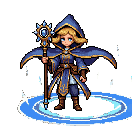
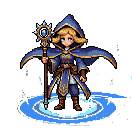
Blue witch nods off in 8 frames; magic circle rings centred under her boots
The blue witch's sleep frames barely moved. She now sits and nods: Pixellab's
dozing frames with her head moved down 0-3px (witch_front_nod_*), 8 frames at
250ms. The black witch keeps her 3 frames at 750ms. Each witch in PETS now
says how many sleep frames she has and how fast, and the art is named
<pet>-sleep-0..n.png (install.ps1 removes the old witch-sleep.png and
witch-black-sleep.png). The default witch is looked up by name, not by her
place in the list.

Pixellab drew the magic circle off to the right of both witches, cut off by
the canvas. Its left half, white core included, is mirrored round the middle
of her boots, so the ring sits under her. witch_attack.py's header notes
that these sources were edited by hand.

Changed region(s): [[0.5152, 0.7273, 1.0, 0.9697]]

diff --git a/mods/kage-agents/main.js b/mods/kage-agents/main.js
@@ -64,10 +64,13 @@ const SORTS = [
   { id: "grouped", label: "Grouped by space", icon: "layers" },
 ];
 const sortOf = () => SORTS.find((s) => s.id === shared("agents.sort")) ?? SORTS[0];
-// The card's witch, picked in the sort popup: <id>-atk-0..8.png while the agent works, <id>-sleep*.png while it idles.
+// The card's witch, picked in the sort popup: <id>-atk-0..8.png while the agent works, <id>-sleep-0..n.png while it
+// idles (the blue witch nods off in 8 quick frames, the black one dozes in 3 slow ones).
 // The art is drawn at this size (avatars/witch_attack.py), so it is shown 1:1.
-const PETS = [{ id: "witch", label: "Blue witch" }, { id: "witch-black", label: "Black witch" }];
-const petOf = () => PETS.find((p) => p.id === shared("agents.pet"))?.id ?? "witch-black";
+const PETS = [{ id: "witch", label: "Blue witch", sleep: 8, ms: 250 }, { id: "witch-black", label: "Black witch", sleep: 3, ms: 750 }];
+const petObj = () => PETS.find((p) => p.id === shared("agents.pet")) ?? PETS.find((p) => p.id === "witch-black");
+const petOf = () => petObj().id;
+const snoreAt = (now) => Math.floor(now / petObj().ms) % petObj().sleep;
 // Each witch's moves while an agent works (<pet>-<id>-0..8.png; the cast is atk). "random" gives each agent one of
 // them, the same one every time (by its address).
 const MOVES = [
@@ -120,11 +123,11 @@ export default class Agents extends View {
     if (!this.pendingPins.length) localStorage.removeItem("pins");
     this.migratingPins = new Set();
     cx.timer.every(30000, (cx) => cx.notify());
-    // The awake witch changes frame 8 times a second; asleep, the z's step every 750ms. No cards, no redraws.
+    // The awake witch changes frame 8 times a second; asleep, every 250 or 750ms. No cards, no redraws.
     // Checked twice per step and redrawn only when the step changes, so a late tick can't skip one.
     cx.timer.every(BEAT, (cx) => {
       const now = Date.now();
-      if ((this.awake && Math.floor(now / BEAT) % FRAMES !== this.step) || (this.asleep && Math.floor(now / 750) % 3 !== this.snore)) cx.notify();
+      if ((this.awake && Math.floor(now / BEAT) % FRAMES !== this.step) || (this.asleep && snoreAt(now) !== this.snore)) cx.notify();
     });
   }
 
@@ -197,7 +200,7 @@ export default class Agents extends View {
       .children(SORTS.map((s) => row(`sort-${s.id}`, s.label, svg(`mods/workspace-chrome/${s.icon}.svg`).size(14).flex_none().text_color(t.muted),
         s.id === sortOf().id, () => setShared("agents.sort", s.id))))
       .child(head("Avatar", 8))
-      .children(PETS.map((p) => row(`pet-${p.id}`, p.label, image(`mods/kage-agents/${p.id}-sleep.png`).w(18).h(18).flex_none(),
+      .children(PETS.map((p) => row(`pet-${p.id}`, p.label, image(`mods/kage-agents/${p.id}-sleep-0.png`).w(18).h(18).flex_none(),
         p.id === petOf(), () => setShared("agents.pet", p.id))))
       .child(head("Move", 8))
       .child(row("move-random", "Random", div().w(18).flex_none().text_color(t.muted).child("?"), moveSetting() === "random",
@@ -279,7 +282,7 @@ export default class Agents extends View {
     const now = Date.now();
     this.track(list, now);
     this.awake = this.asleep = false;
-    this.snore = Math.floor(now / 750) % 3;
+    this.snore = snoreAt(now);
     const step = this.step = Math.floor(now / BEAT) % FRAMES;
     // A kept sub-agent (one with a pane) is in agents() too: where a tree shows
     // it, it gets no row of its own, unless it's pinned.
@@ -398,7 +401,7 @@ export default class Agents extends View {
       const asleep = !LABEL[a.status] || a.status === "idle";
       if (asleep) this.asleep = true; else this.awake = true;
       const face = div().relative().w(FACE + 2).h(FACE + 2).flex_none().rounded(6).border_1().border_color(asleep ? t.border : t.accent).bg(t.canvas)
-        .child(image(`mods/kage-agents/${petOf()}-${asleep ? ["sleep", "sleep-1", "sleep-2"][this.snore] : `${moveOf(a.address)}-${step}`}.png`).absolute().left(0).top(0).w(FACE).h(FACE));
+        .child(image(`mods/kage-agents/${petOf()}-${asleep ? `sleep-${this.snore}` : `${moveOf(a.address)}-${step}`}.png`).absolute().left(0).top(0).w(FACE).h(FACE));
       const tint = t[a.status] ?? t.dim;
       const badge = div().flex_none().px(5).h(20).rounded(3).border_1().border_color(tint).text_size(16).font_bold().text_color(tint).flex().items_center().child(LABEL[a.status] ?? "IDLE");
       return h_flex()

diff --git a/avatars/witch_attack.py b/avatars/witch_attack.py
@@ -1,10 +1,12 @@
 # Makes the Agents card art from the Pixellab frames in avatars/pixellab/, 96x96, drawn 1:1, for each witch
 # (picked in the Agents menu):
-#   witch        front-facing witch2, blue cloak and crystal staff (witch_front_*, sleep frames 1..3; 0 stands)
-#   witch-black  black hooded cloak and branch staff (witch_black_*, sleep frames 2..4; 0-1 still nod off)
-# Each gives mods/kage-agents/<id>-atk-0..8.png (the cast, while an agent works) and avatars/<id>-sleep, -1, -2.png
+#   witch        front-facing witch2, blue cloak and crystal staff (witch_front_*; asleep: nod_0..7, sitting and nodding)
+#   witch-black  black hooded cloak and branch staff (witch_black_*; asleep: sleep_2..4, eyes shut; 0-1 still nod off)
+# Each gives mods/kage-agents/<id>-atk-0..8.png (the cast, while an agent works) and avatars/<id>-sleep-0..n.png
 # (asleep), and <id>-<move>-0..8.png for her six other moves (<src>_<move>_*). One crop and one scale (nearest) per
 # witch so she is the same size in every frame; skin is paled.
+# Hand-edited sources, keep them: witch_front_nod_* are Pixellab's dozing frames with the head moved down 0-3px; the
+# *_circle_* rings were mirrored round the middle of her boots (Pixellab drew them off to the right).
 #   python avatars/witch_attack.py
 import os, colorsys
 from PIL import Image
@@ -26,7 +28,7 @@ def pale(im):  # skin tones (orange-ish hues) lighter and less saturated; hair, 
 MOVES = ["strike", "fireball", "circle", "lightning", "hand", "twirl"]
 load = lambda n: pale(Image.open(os.path.join(HERE, "pixellab", n)).convert("RGBA"))
 
-for id, src, sleeps in [("witch", "witch_front", [1, 2, 3]), ("witch-black", "witch_black", [2, 3, 4])]:
+for id, src, sleeps in [("witch", "witch_front", [f"nod_{i}" for i in range(8)]), ("witch-black", "witch_black", ["sleep_2", "sleep_3", "sleep_4"])]:
     fr = [load(f"{src}_attack_{i}.png") for i in range(9)]
     bb = [f.getbbox() for f in fr]
     box = [min(b[0] for b in bb), min(b[1] for b in bb), max(b[2] for b in bb), max(b[3] for b in bb)]
@@ -38,8 +40,8 @@ for id, src, sleeps in [("witch", "witch_front", [1, 2, 3]), ("witch-black", "wi
         return out
     for i, f in enumerate(fr):
         fit(f).save(os.path.join(OUT, f"{id}-atk-{i}.png"))
-    for n, i in zip(["sleep", "sleep-1", "sleep-2"], sleeps):
-        fit(load(f"{src}_sleep_{i}.png")).save(os.path.join(HERE, f"{id}-{n}.png"))
+    for k, n in enumerate(sleeps):
+        fit(load(f"{src}_{n}.png")).save(os.path.join(HERE, f"{id}-sleep-{k}.png"))
     print(id, w, h, s)
     # Her other moves (<src>_<move>_0..8, picked in the Agents menu): the cast's scale and place, so she stays the
     # same size; effects reaching past the card are cut off at its edge.
